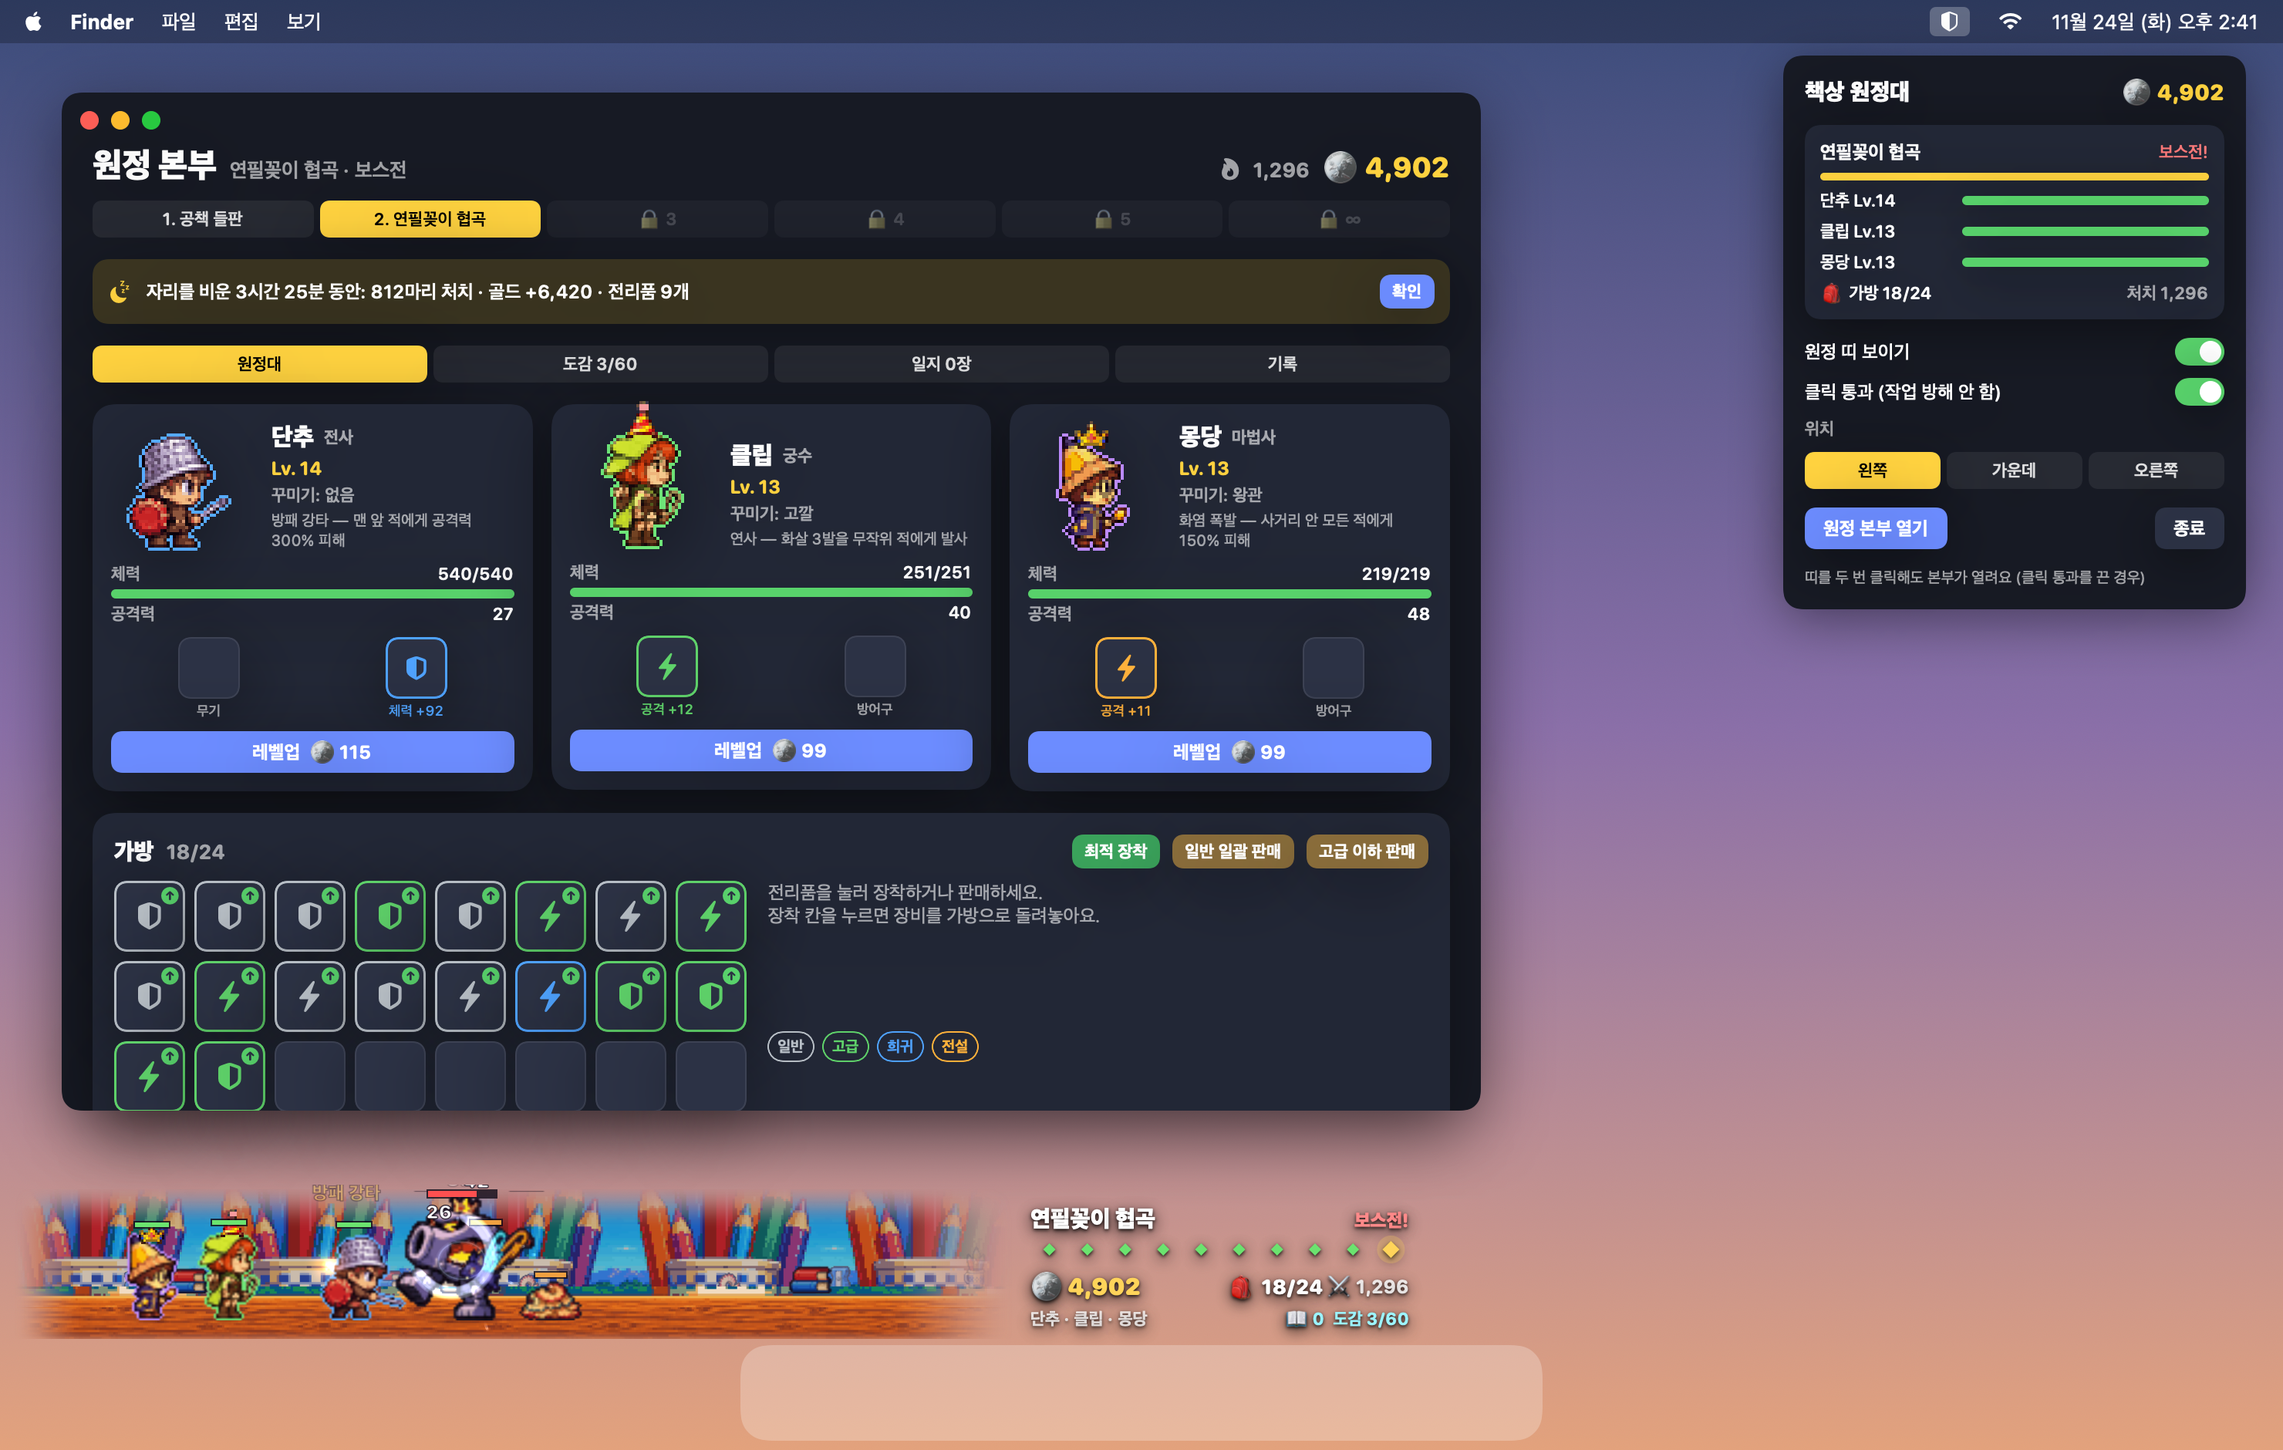
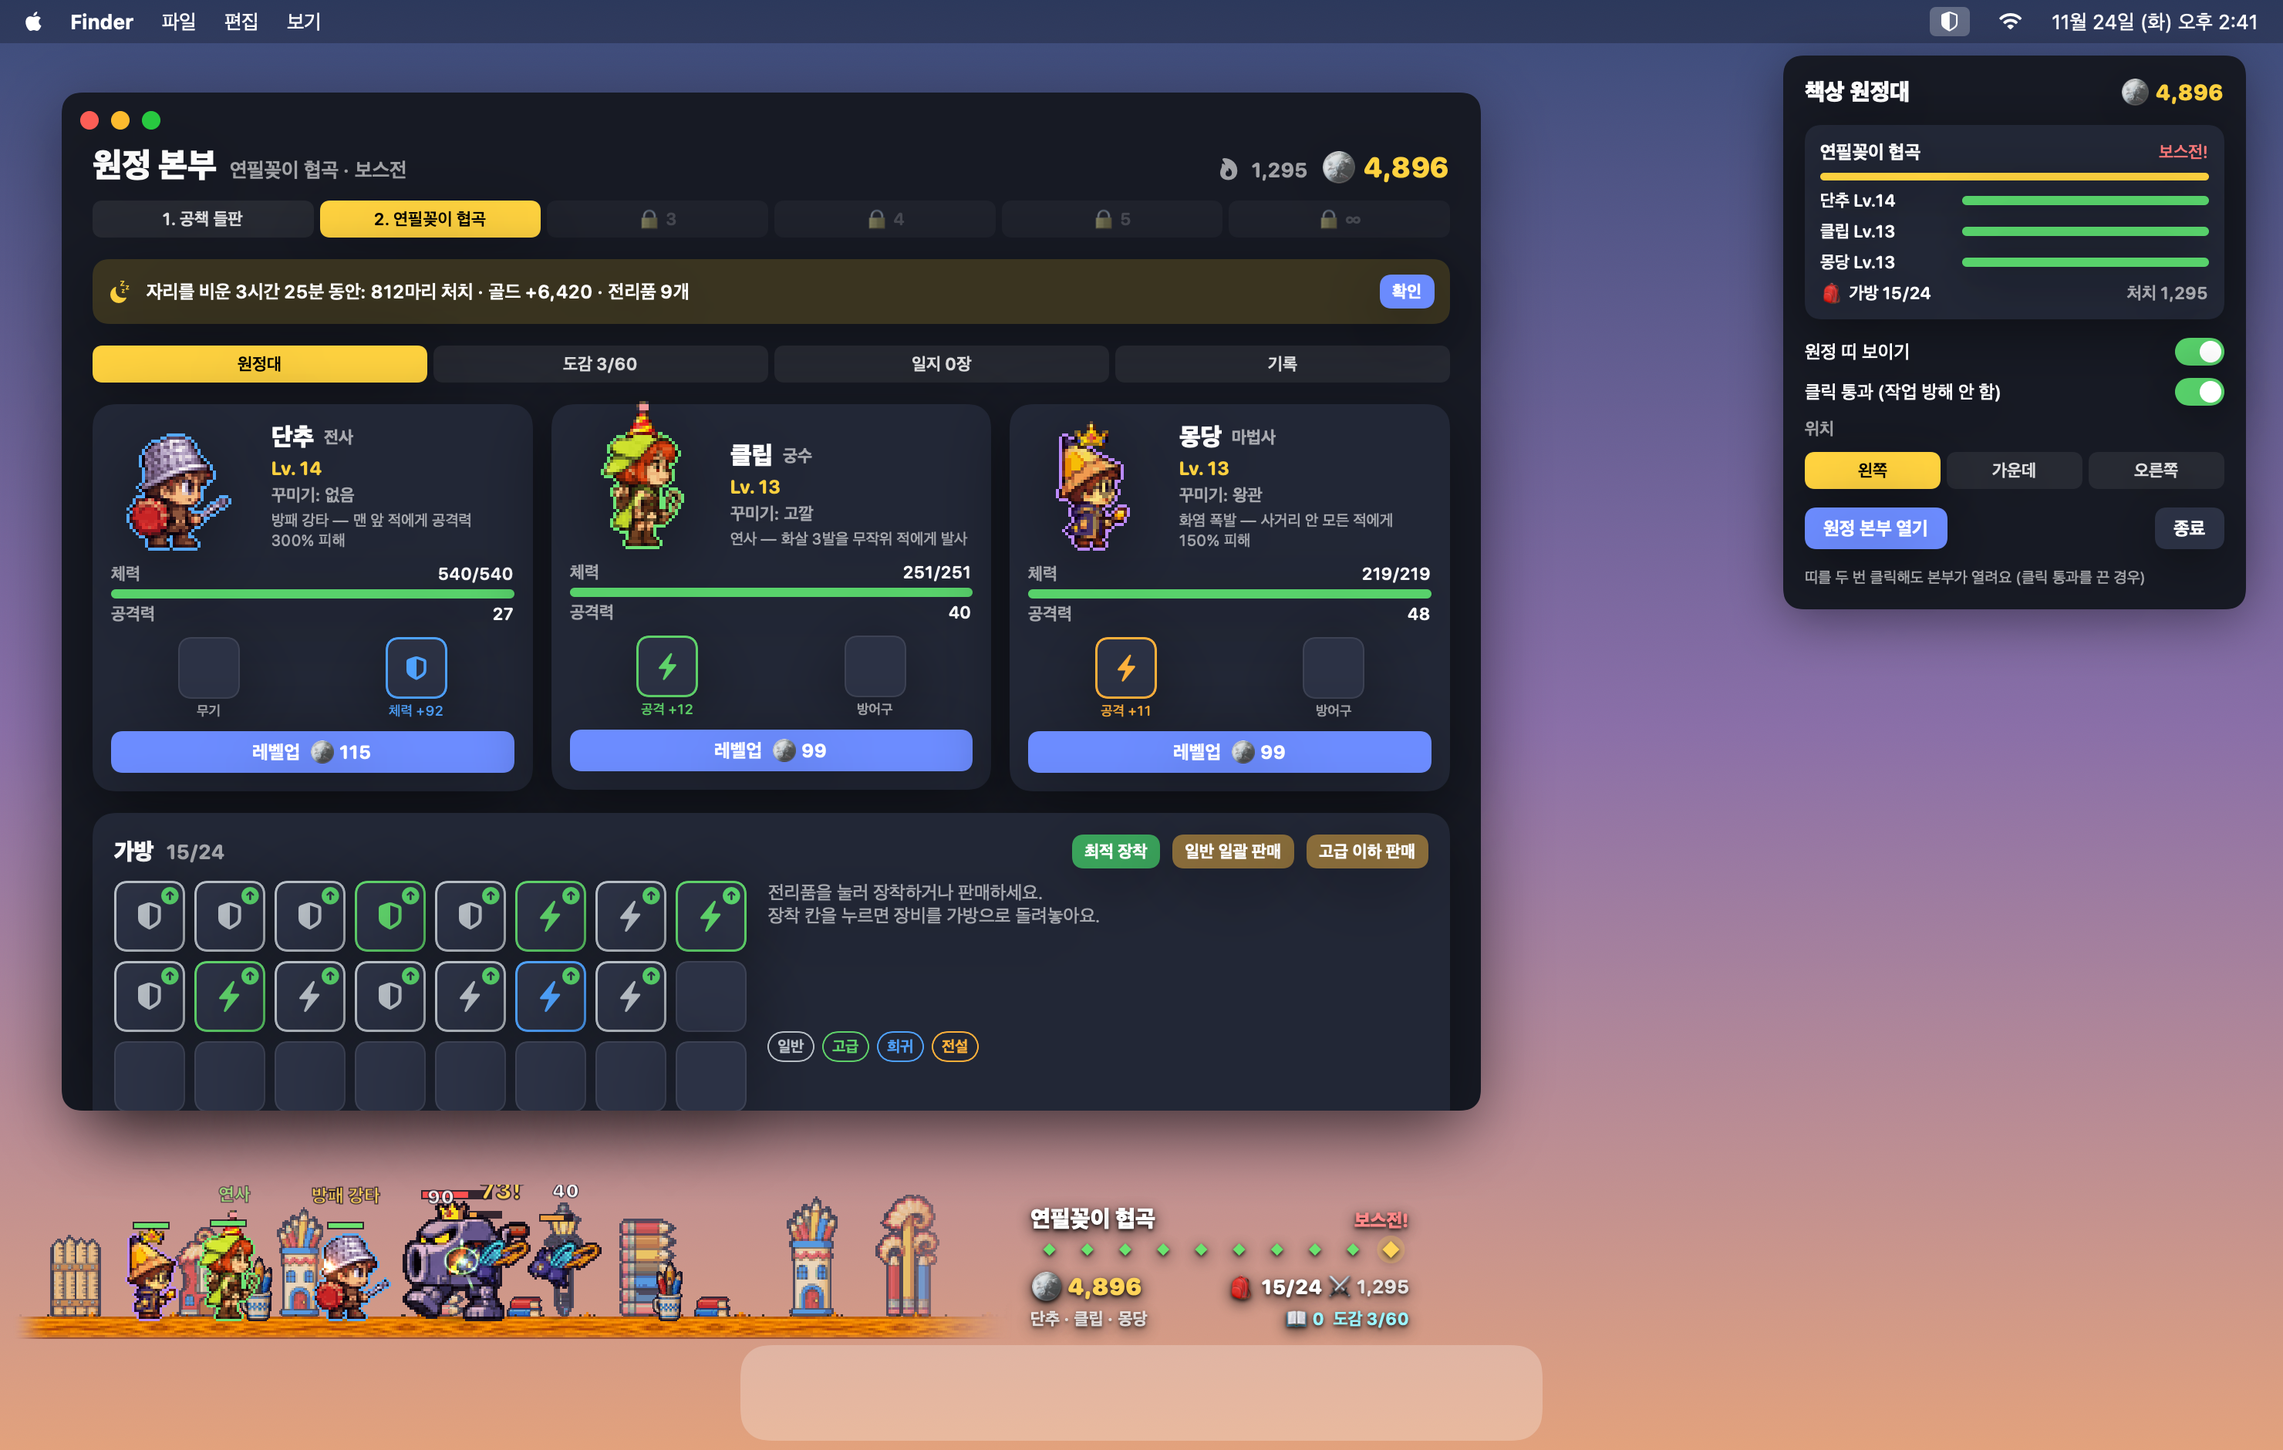
0.2.4: 배경 그림을 없애고 얇은 지면 위 오브젝트만 — 레몬데스크식 띠
- 지역마다 얇은 픽셀 지면 줄(strip_*)을 새로 생성해 바닥에 깔고, 그 위는 바탕화면이 그대로 보이게
- 배경 그림 대신 지역별 랜드마크 오브젝트(연필 나무, 찻잔 집, 화분 나무, 스탠드, 동전 탑 등 props2_*) 추가
- 오브젝트 깊이 3단: 먼 랜드마크 0.35 / 중간 0.55 / 가까운 소품 1.0, 멀수록 작고 옅게
- 영웅·몬스터 발을 지면 줄에 맞춤

diff --git a/Sources/Strip/StripScene.swift b/Sources/Strip/StripScene.swift
@@ -8,7 +8,7 @@ import SpriteKit
 @MainActor
 final class StripScene: SKScene {
     static let viewport = CGRect(x: 0, y: 0, width: StripLayout.battleWidth, height: StripLayout.height)
-    static let groundY: CGFloat = 12
+    static var groundY: CGFloat = 13
     /// Prop frames that don't read well standing on the ground.
     static let skipProps: [String: Set<Int>] = ["drawer": [5]]
     /// Where gold glints fly to (HUD gold counter, scene coordinates).
@@ -127,7 +127,7 @@ final class StripScene: SKScene {
 
     /// Parallax speeds (× ground speed).
     enum Depth {
-        static let far: CGFloat = 0.25, mid: CGFloat = 0.55, groundBack: CGFloat = 0.8
+        static let far: CGFloat = 0.35, mid: CGFloat = 0.55, groundBack: CGFloat = 0.8
         static let ground: CGFloat = 1, fore: CGFloat = 1.45
     }
 
@@ -137,49 +137,47 @@ final class StripScene: SKScene {
         for l in lanes { l.items.forEach { $0.node.removeFromParent() } }
         bands = []; lanes = []
 
-        let ground = Backdrop.texture("bg_\(region.scene)_ground")
-        let far = Backdrop.texture("bg_\(region.scene)_far")
-        var groundH: CGFloat = 30
-        if let g = ground {
-            // The walkable floor is split in two so its back edge slides slower than the strip under the feet.
-            let backFrac: CGFloat = 0.4
-            let back = SKTexture(rect: CGRect(x: 0, y: 1 - backFrac, width: 1, height: backFrac), in: g)
-            let front = SKTexture(rect: CGRect(x: 0, y: 0, width: 1, height: 1 - backFrac), in: g)
-            back.filteringMode = .nearest; front.filteringMode = .nearest
-            let frontH = front.size().height * Backdrop.nodeScale
-            groundH = g.size().height * Backdrop.nodeScale
-            bands.append(ParallaxBand(texture: front, y: 0, speed: Depth.ground, layer: groundLayer, scene: self))
-            bands.append(ParallaxBand(texture: back, y: frontH - 0.5, speed: Depth.groundBack, layer: groundBackLayer, scene: self))
+        // LemonDesk-style: a thin pixel ground line at the bottom; everything stands on it and
+        // the desktop itself is the sky.
+        if let strip = Backdrop.texture("strip_\(region.scene)") {
+            bands.append(ParallaxBand(texture: strip, y: 0, speed: Depth.ground, layer: groundLayer, scene: self))
+            groundTop = strip.size().height * Backdrop.nodeScale - 5
+        } else {
+            groundTop = 12
         }
-        groundTop = groundH - 1
-        if let f = far {
-            bands.append(ParallaxBand(texture: f, y: groundTop - 1, speed: Depth.far, layer: farLayer, scene: self,
-                                      tint: (NSColor(hex: 0x1A1030), 0.22)))
-        }
+        Self.groundY = groundTop - 1
 
         let props = SpriteSheet.named("props_\(region.scene)")
         let usable = (0..<(props?.frames.count ?? 0)).filter { !(Self.skipProps[region.scene] ?? []).contains($0) }
+        // Tall landmark objects (the "trees" of each desk region); falls back to regular props.
+        let landmarks = SpriteSheet.named("props2_\(region.scene)") ?? props
+        func landmark() -> (SpriteSheet, Int)? {
+            guard let sheet = landmarks else { return nil }
+            return (sheet, Int.random(in: 0..<sheet.frames.count))
+        }
+        // No painted backdrop: the desktop shows above the floor; depth comes from objects alone.
+        // Far: big landmark objects on the back edge, slow and slightly faded.
+        lanes.append(PropLane(layer: farLayer, speed: Depth.far, spacing: 48...110, y: groundTop + 1) { [weak self] in
+            guard let (sheet, f) = landmark() else { return nil }
+            let n = SKSpriteNode(texture: sheet.frames[f])
+            n.anchorPoint = sheet.anchor
+            n.setScale(PixelArt.scale * CGFloat.random(in: 0.75...0.95))
+            self?.scenery(n, tint: (NSColor(hex: 0xBFC6E6), 0.3))
+            return n
+        })
         // Mid: small hazy props on the horizon.
-        lanes.append(PropLane(layer: midLayer, speed: Depth.mid, spacing: 70...170, y: groundTop - 1) { [weak self] in
-            guard let props, let f = usable.randomElement() else { return nil }
-            let n = SKSpriteNode(texture: props.frames[f])
-            n.anchorPoint = props.anchor
-            n.setScale(PixelArt.scale * CGFloat.random(in: 0.38...0.5))
-            self?.scenery(n, tint: (NSColor(hex: 0x9AA6D0), 0.45))
+        lanes.append(PropLane(layer: midLayer, speed: Depth.mid, spacing: 110...240, y: groundTop) { [weak self] in
+            let pick: (SpriteSheet, Int)? = Bool.random() ? landmark() : props.flatMap { p in usable.randomElement().map { (p, $0) } }
+            guard let (sheet, f) = pick else { return nil }
+            let n = SKSpriteNode(texture: sheet.frames[f])
+            n.anchorPoint = sheet.anchor
+            n.setScale(PixelArt.scale * CGFloat.random(in: 0.6...0.75))
+            self?.scenery(n, tint: (NSColor(hex: 0xBFC6E6), 0.12))
             return n
         })
         // Near: props and trophies on the back edge of the floor, behind the party.
-        lanes.append(PropLane(layer: propLayer, speed: Depth.ground, spacing: 170...340, y: groundTop - 4) { [weak self] in
+        lanes.append(PropLane(layer: propLayer, speed: Depth.ground, spacing: 150...320, y: groundTop - 1) { [weak self] in
             self?.makeNearProp(props: props, usable: usable)
-        })
-        // Fore: big dark silhouettes sliding past in front of everyone, mostly below the frame.
-        lanes.append(PropLane(layer: foreLayer, speed: Depth.fore, spacing: 380...760, y: -34) { [weak self] in
-            guard let props, let f = usable.randomElement() else { return nil }
-            let n = SKSpriteNode(texture: props.frames[f])
-            n.anchorPoint = props.anchor
-            n.setScale(PixelArt.scale * CGFloat.random(in: 1.3...1.6))
-            self?.scenery(n, tint: (NSColor(hex: 0x120A1C), 0.7), alpha: 0.9)
-            return n
         })
         for l in lanes { l.nextX = scroll * l.speed + CGFloat.random(in: 40...200) }
         applyThemeTint()
@@ -969,8 +967,8 @@ enum SceneryShader {
         void main() {
             vec4 c = texture2D(u_texture, (floor(v_tex_coord * a_tex) + 0.5) / a_tex);
             vec2 p = vec2(v_tex_coord.x * a_map.x + a_map.y, v_tex_coord.y * a_map.z + a_map.w);
-            float side = smoothstep(0.0, 46.0, p.x) * (1.0 - smoothstep(\(Int(fadeRight) - 90).0, \(Int(fadeRight)).0, p.x));
-            float top = 1.0 - smoothstep(70.0, 100.0, p.y);
+            float side = smoothstep(0.0, 24.0, p.x) * (1.0 - smoothstep(\(Int(fadeRight) - 90).0, \(Int(fadeRight)).0, p.x));
+            float top = 1.0;
             float bottom = smoothstep(-6.0, 6.0, p.y);
             vec3 rgb = mix(c.rgb, a_tint.rgb * c.a, a_tint.a) * a_mul;
             gl_FragColor = vec4(rgb, c.a) * (side * top * bottom) * v_color_mix.a;

diff --git a/scripts/art/specs.py b/scripts/art/specs.py
@@ -147,3 +147,62 @@ def all_specs():
     specs["props_drawer"] = "Image: " + PROPS.format(scene=DRAWER_SCENE)
     specs["trophies"] = "Image: " + TROPHIES
     return specs
+
+
+# --- v0.2.4: thin ground lines (LemonDesk-style: objects stand on a strip, the desktop shows above) ---
+GROUND_LINE = (
+    "A single long, thin, horizontal 2D pixel-art GROUND STRIP for a side-scrolling game, seen from the side, "
+    "late-1990s 32-bit console style (crisp chunky pixels, 1px dark outline on top edge, saturated colors, "
+    "NO anti-aliasing). The strip runs edge to edge across the full image width as one continuous band about "
+    "8% of the image height, centered vertically; solid flat pure magenta (#FF00FF) everywhere above and below it. "
+    "The top edge of the strip is decorated with tiny details sticking up (no more than a few pixels tall). "
+    "It must tile seamlessly left-to-right. No text, no characters, no large objects. Material: {material}."
+)
+
+STRIP_MATERIALS = {
+    "notebook": "white lined notebook paper edge with blue lines, tiny pink eraser crumbs and pencil dots on top",
+    "pencilcup": "warm wooden desk plank with wood grain, tiny curly pencil shavings and graphite dust on top",
+    "mug": "dark wooden desk with spilled coffee drips, tiny sugar grains and coffee drops on top",
+    "planter": "brown soil with small grass tufts, tiny fallen leaves and pebbles on top",
+    "monitor": "dark navy desk surface with a thin glowing blue cable line, tiny dust specks and crumbs on top",
+    "drawer": "old wooden drawer floor with tiny coins, paper clip bits and rubber band pieces on top",
+}
+
+_v022_all_specs = all_specs
+
+
+def all_specs():
+    specs = _v022_all_specs()
+    for scene, material in STRIP_MATERIALS.items():
+        specs[f"strip_{scene}"] = "Image: " + GROUND_LINE.format(material=material)
+    return specs
+
+
+LANDMARKS = {
+    "notebook": "tall cute 'trees' and landmarks made of stationery: a pencil standing upright with a leafy sticky-note crown, "
+                "a paper-airplane on a stick, a stack of erasers like a tower, a folded paper tree, a ruler signpost, a tiny paper house",
+    "pencilcup": "tall pencils standing like trees with shaving-leaf tops, a pencil cup tower, a sharpener hut, a crayon lamp post, "
+                 "a stack of colored pencils, a wooden ruler fence",
+    "mug": "a steaming teacup house, sugar-cube towers, a cinnamon-stick tree, a tea bag hanging from a spoon post, "
+           "a cookie wheel, a coffee bean bush",
+    "planter": "round leafy potted trees with tiny flowers, a tall succulent, a fern, a small cactus, a flowering shrub, a mushroom",
+    "monitor": "a glowing desk lamp, a cable tree with LED leaves, a USB-stick tower, a keycap house, a headphone arch, a mini plant",
+    "drawer": "a stack of coins like a tower, a spool of thread tree, a rubber-band bush, a key standing upright, "
+              "a matchbox house, a candle stub lamp",
+}
+
+LANDMARK_PROMPT = (
+    "A row of 6 separate 2D pixel-art background objects for a cute side-scrolling desktop idle game, late-1990s 32-bit "
+    "console style (crisp chunky pixels, 1px dark outline, saturated colors, NO anti-aliasing). Solid flat pure magenta "
+    "(#FF00FF) background, evenly spaced in one row, not touching, each standing on an invisible ground line, "
+    "similar heights (tall, like small trees), no shadows, no text. Objects: {what}."
+)
+
+_v024_all_specs = all_specs
+
+
+def all_specs():
+    specs = _v024_all_specs()
+    for scene, what in LANDMARKS.items():
+        specs[f"props2_{scene}"] = "Image: " + LANDMARK_PROMPT.format(what=what)
+    return specs

diff --git a/scripts/art/process.py b/scripts/art/process.py
@@ -30,7 +30,7 @@ def layout(key):
         flyer = name in {"paper_crane", "clip_bat", "teabag_ghost", "dandelion_sprite", "cursor_ghost"}
         h = 50 if boss else 32 if heavy else 20 if flyer else 20
         return 3, 4, h, MON_ANIMS
-    if key.startswith("props_") or key in ("accessories", "trophies"):
+    if key.startswith("props") or key in ("accessories", "trophies"):
         return 1, 6, None, None
     return None
 
@@ -150,13 +150,13 @@ def process_sheet(key):
         f = target_h / float(np.median(ref))
     else:  # props/accessories: scale relative to the tallest item
         tallest = max(b[3] - b[1] for b in boxes if b)
-        f = (44 if key.startswith("props_") else 18 if key == "trophies" else 12) / tallest
+        f = (58 if key.startswith("props2_") else 44 if key.startswith("props_") else 18 if key == "trophies" else 12) / tallest
     frames = [shrink(img, b, f) if b else np.zeros((1, 1, 4), np.uint8) for b in boxes]
     frames = quantize(frames)
     team = TEAM.get(key)
     if key.startswith("hero_"):
         frames = [add_outline(fr, team) for fr in frames]
-    elif key.startswith("mon_") or key.startswith("props_") or key == "trophies":
+    elif key.startswith("mon_") or key.startswith("props") or key == "trophies":
         frames = [add_outline(fr, OUTLINE_DARK) for fr in frames]
 
     # common cell: every frame bottom-aligned, anchor column aligned
@@ -244,11 +244,37 @@ def process_backdrop(key):
     return f"{key}: {out}"
 
 
+def process_strip(key, height=12):
+    """Thin ground line on magenta → transparent, `height` art px tall, seamless loop (quilted incl. alpha)."""
+    img, fg = load_rgba(RAW / f"{key}.png")
+    rows = np.nonzero(fg.mean(1) > 0.5)[0]           # rows that are mostly ground
+    y0, y1 = rows.min(), rows.max() + 1
+    deco = np.nonzero(fg[:y0].mean(1) > 0.01)[0]     # little details sticking up above the band
+    if len(deco):
+        y0 = max(deco.min(), y0 - (y1 - y0))
+    band = img[y0:y1, 8:-8]
+    H, W = band.shape[:2]
+    f = height / H
+    small = Image.fromarray(band).convert("RGBa").resize((round(W * f), height), Image.BOX).convert("RGBA")
+    a = np.asarray(small).copy()
+    a[..., 3] = np.where(a[..., 3] >= 110, 255, 0)
+    rgb = Image.fromarray(a[..., :3]).quantize(32, method=Image.MEDIANCUT, dither=Image.NONE).convert("RGB")
+    a = np.dstack([np.asarray(rgb), a[..., 3]]).astype(np.float32)
+    weighted = a.copy(); weighted[..., :3] *= (a[..., 3:] / 255)
+    tile, cost = make_loop(weighted)
+    # re-take true colours for the chosen window (make_loop worked on weighted copies)
+    out = tile.copy()
+    out[..., :3] = np.where(out[..., 3:] > 0, out[..., :3] / np.maximum(out[..., 3:] / 255, 1e-3), 0)
+    Image.fromarray(out.clip(0, 255).astype(np.uint8), "RGBA").save(OUT / f"{key}.png")
+    return f"{key}: {tile.shape[1]}x{tile.shape[0]}, seam {round(cost)}"
+
+
 def main():
     keys = sys.argv[1:] or sorted(p.stem for p in RAW.glob("*.png"))
     for k in keys:
         try:
-            print(process_backdrop(k) if k.startswith("bg_") else process_sheet(k))
+            print(process_backdrop(k) if k.startswith("bg_") else process_strip(k) if k.startswith("strip_")
+                  else process_sheet(k))
         except Exception as e:  # keep going; report at the end
             print(f"ERROR {k}: {e}")
 
